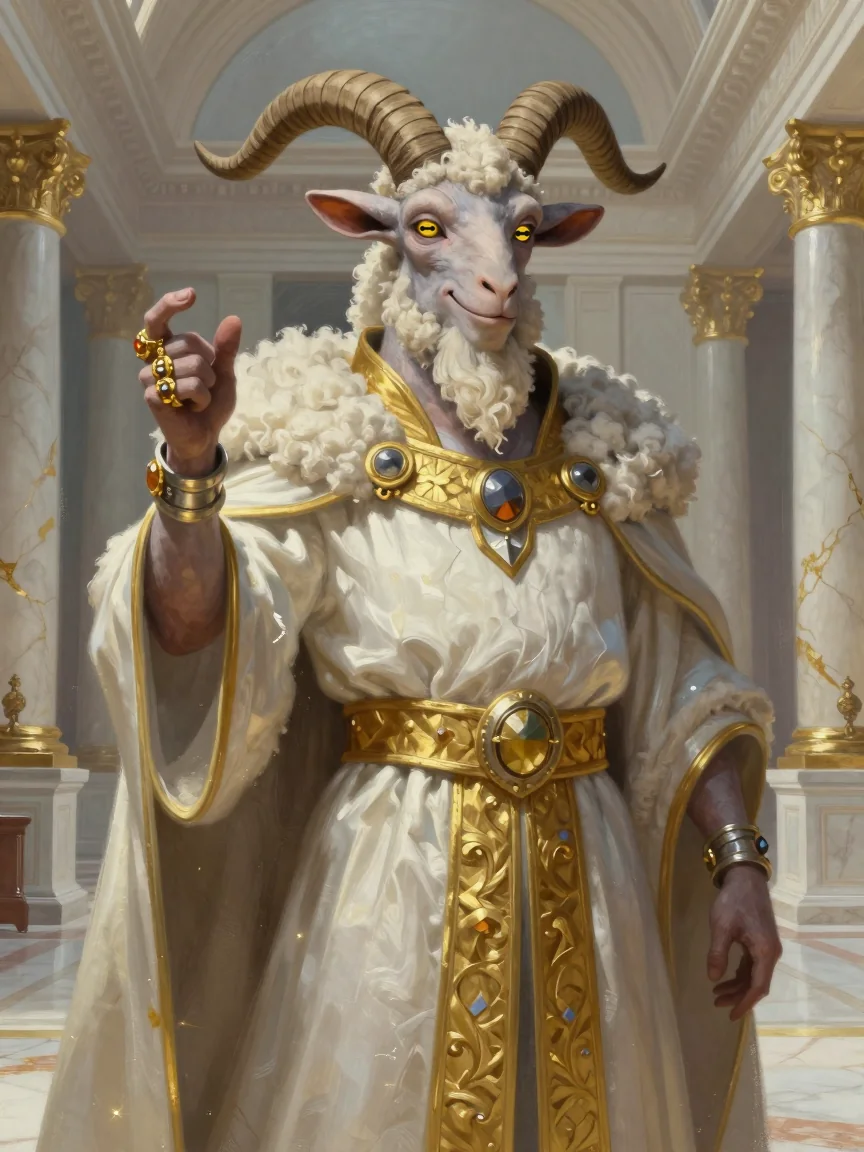
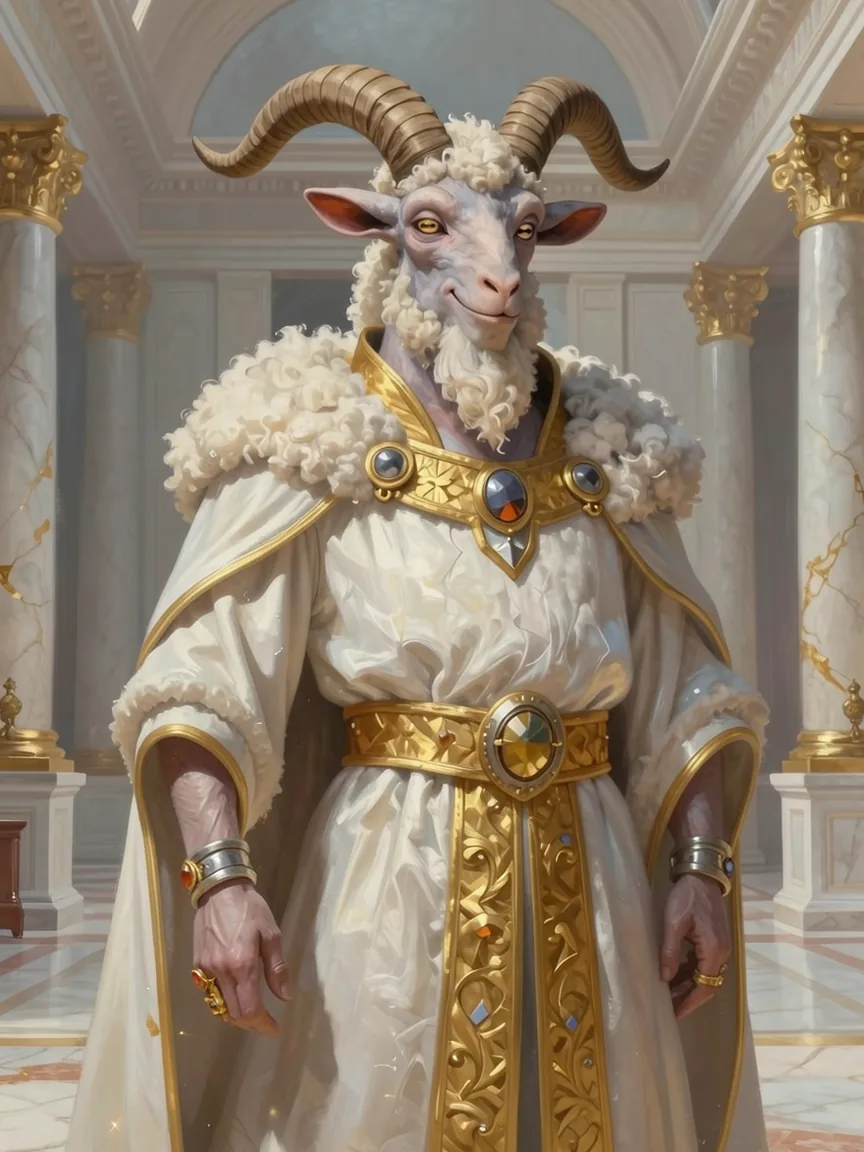
feat(art): Baasil portrait with his arms at his sides, cache-busted portraits
Owner disliked the raised hand on Baasil's portrait. Re-posed the approved
r6#2 (goat eyes) with Studio edit_image.py (FLUX.2 klein), prompt "right
arm hangs straight down at his right side... keep everything else exactly
the same", seed 277147683715033, file sc_baasil_pose_r2_side_00001_.png,
2026-10-09. Round 1 offered hip / clasped / chest / sides; owner picked #4
(arms at sides).

Character portraits now carry ?v=<mtime> like the banner and novel cover,
so a replaced portrait shows past Cloudflare's week-long /storage cache.

Claude-Session: https://claude.ai/code/session_016p8mUFBFPMdVVuQYjuJnge

diff --git a/tests/Feature/PublicPagesTest.php b/tests/Feature/PublicPagesTest.php
@@ -89,6 +89,20 @@ test('the novel cover url busts the cache once the art exists', function () {
     expect(Novel::getSingleton()->cover_image)->toBe('novel/cover.webp');
 });
 
+test('character portrait urls bust the cache once the art exists', function () {
+    Character::where('slug', 'baasil')->update(['profile_image' => 'characters/baasil.webp']);
+
+    $this->get('/characters/baasil')->assertInertia(fn ($page) => $page->where('character.profile_image', 'characters/baasil.webp'));
+
+    Storage::disk('public')->put('characters/baasil.webp', 'x');
+    $busted = fn ($src) => str_starts_with($src, 'characters/baasil.webp?v=');
+
+    $this->get('/characters/baasil')->assertInertia(fn ($page) => $page->where('character.profile_image', $busted));
+    $this->get('/characters')->assertInertia(fn ($page) => $page->where('characters', fn ($all) => $busted(collect($all)->firstWhere('slug', 'baasil')['profile_image'])));
+    $this->get('/')->assertInertia(fn ($page) => $page->where('characters', fn ($all) => $busted(collect($all)->firstWhere('slug', 'baasil')['profile_image'])));
+    expect(Character::where('slug', 'baasil')->value('profile_image'))->toBe('characters/baasil.webp');
+});
+
 test('the seeder publishes art and is idempotent', function () {
     $dir = sys_get_temp_dir().'/sc-art-'.uniqid();
     mkdir("{$dir}/characters", 0777, true);

diff --git a/app/Models/Character.php b/app/Models/Character.php
@@ -4,6 +4,7 @@ namespace App\Models;
 
 use Illuminate\Database\Eloquent\Model;
 use Illuminate\Database\Eloquent\Relations\HasMany;
+use Illuminate\Support\Facades\Storage;
 
 class Character extends Model
 {
@@ -28,6 +29,23 @@ class Character extends Model
         'cons' => 'array',
         'published' => 'boolean',
     ];
+
+    /**
+     * Append each image's modified time so a replaced portrait busts Cloudflare's
+     * week-long /storage cache. For display only; never save the result.
+     */
+    public function withImageVersions(): static
+    {
+        $disk = Storage::disk('public');
+
+        foreach (['profile_image', 'action_image'] as $field) {
+            if ($this->{$field} && $disk->exists($this->{$field})) {
+                $this->{$field} .= '?v='.$disk->lastModified($this->{$field});
+            }
+        }
+
+        return $this;
+    }
 
     public function diaryEntries(): HasMany
     {

diff --git a/app/Http/Controllers/CharacterController.php b/app/Http/Controllers/CharacterController.php
@@ -12,7 +12,8 @@ class CharacterController extends Controller
     {
         $characters = Character::where('published', true)
             ->orderBy('sort_order')
-            ->get(['id', 'slug', 'name', 'tagline', 'profile_image', 'action_image']);
+            ->get(['id', 'slug', 'name', 'tagline', 'profile_image', 'action_image'])
+            ->each->withImageVersions();
 
         return Inertia::render('Characters/Index', [
             'characters' => $characters,
@@ -30,7 +31,7 @@ class CharacterController extends Controller
             ->firstOrFail();
 
         return Inertia::render('Characters/Show', [
-            'character' => $character,
+            'character' => $character->withImageVersions(),
         ]);
     }
 }

diff --git a/app/Http/Controllers/HomeController.php b/app/Http/Controllers/HomeController.php
@@ -13,7 +13,8 @@ class HomeController extends Controller
     {
         $characters = Character::where('published', true)
             ->orderBy('sort_order')
-            ->get(['id', 'slug', 'name', 'tagline', 'profile_image', 'action_image']);
+            ->get(['id', 'slug', 'name', 'tagline', 'profile_image', 'action_image'])
+            ->each->withImageVersions();
 
         $disk = Storage::disk('public');
 
